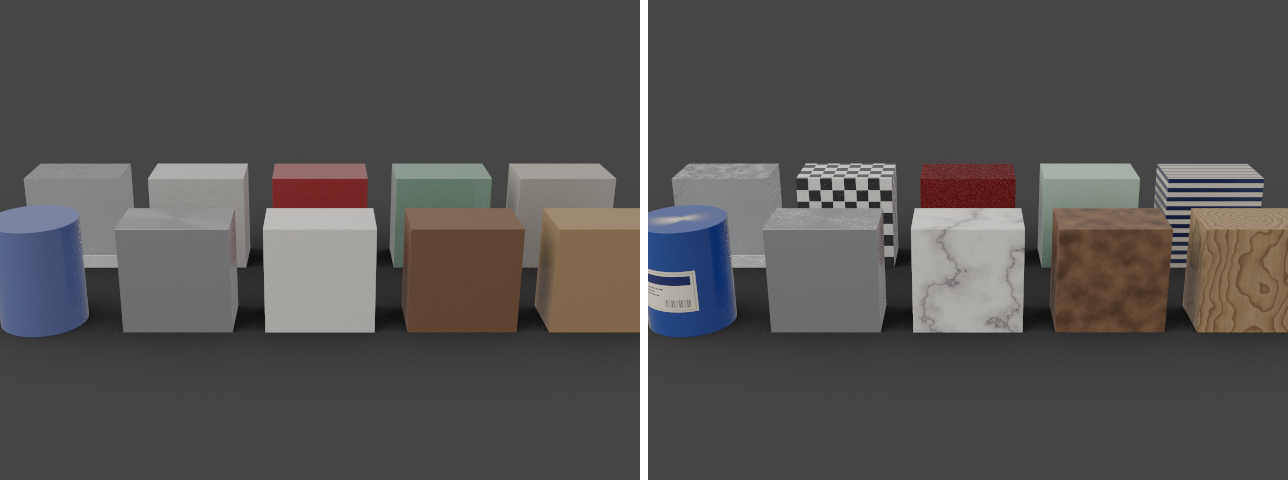
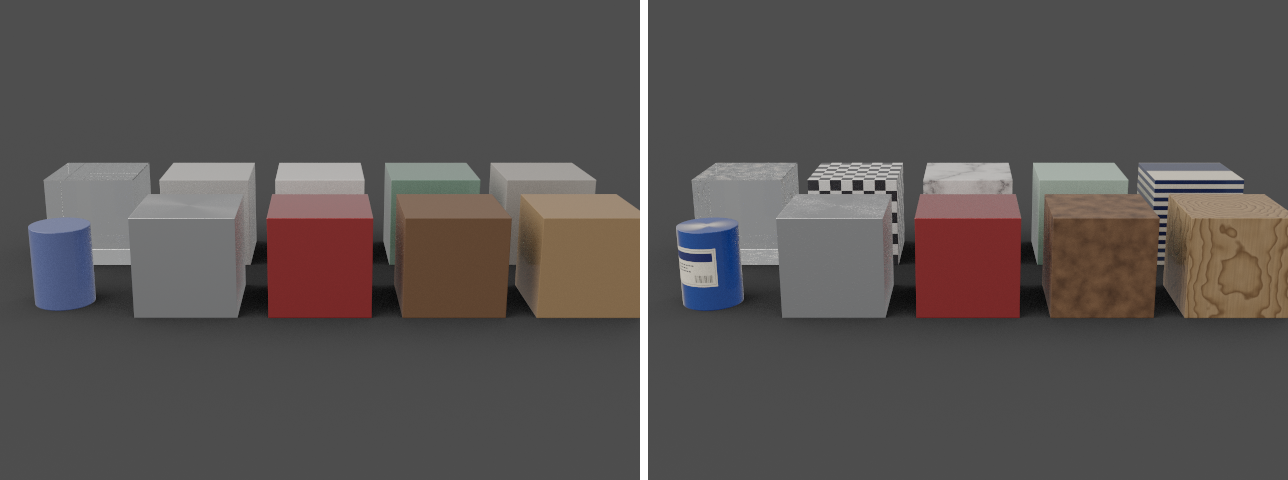
C1: the second round in the docs, and the stale captures re-recorded
Claude-Session: https://claude.ai/code/session_01Vyw8CoEN48cqBKpA2hjydX

Changed region(s): [[0.0, 0.3125, 1.0, 0.7188]]

diff --git a/tests/m3b-graphs-sheet.test.ts b/tests/m3b-graphs-sheet.test.ts
@@ -1,0 +1,79 @@
+// The capture `docs/ui/m3b-graphs.png` (M3b; made again in C1, with the flakes facing out): the ten example graphs of
+// M3a on nine boxes and a cylinder, rendered by the real rt.wasm under the default studio, with each material's mean
+// (left, a writer without programs) and with its graph's program (right), side by side. Runs only when asked
+// (REPACK_WRITE_CAPTURES=1) and with rt.wasm:
+//
+//   npm run engine:build && REPACK_WRITE_CAPTURES=1 npx vitest run tests/m3b-graphs-sheet.test.ts
+
+import { writeFileSync } from 'node:fs';
+import { describe, expect, it } from 'vitest';
+import { exampleGraph, registerLabelImage } from '../src/core/material-examples';
+import { instanceFromPreset, type MaterialInstance } from '../src/core/materials';
+import { registerMesh } from '../src/core/meshes';
+import type { NodeId, SceneNode } from '../src/core/scene';
+import { createInitialState, reduce, type ProjectState } from '../src/core/store';
+import { MATERIAL_GRAPHS } from '../src/data/material-graphs';
+import { encodePng } from '../src/io/image';
+import { projectScene, tonemapFor, writeRsb } from '../src/io/rsb';
+import { exactBytes } from '../src/render/tiles';
+import { box, cylinder, moved } from './browser/programs-scene';
+import { loadRt, renderWithPasses, RT_WASM } from './wasm-engine';
+
+const W = 640;
+const H = 480;
+const SAMPLES = 128;
+const GAP = 8;
+
+/** The ten parts in two rows (the back row raised behind the front one), each with its example's graph. */
+function sheetScene(): ProjectState {
+  const nodes: Record<NodeId, SceneNode> = {};
+  const materials: Record<string, MaterialInstance> = {};
+  const children: string[] = [];
+  // Back row, then front row (the glass at the back, so it hides nothing; the flakes in the middle of the front).
+  const ORDER = ['GLASS_DIRT', 'CHECKS', 'MARBLE', 'GLAZED_CERAMIC', 'STRIPES', 'PLASTIC_LABEL', 'BRUSHED_SCRATCHED', 'METALLIC_FLAKES', 'LEATHER', 'WOOD_TWO_NOISES'];
+  expect([...ORDER].sort()).toEqual(MATERIAL_GRAPHS.map((g) => g.key).sort());
+  ORDER.map((key) => MATERIAL_GRAPHS.find((g) => g.key === key)!).forEach((def, i) => {
+    const row = i < 5 ? 1 : 0;
+    const col = i % 5;
+    const id = `p${i}`;
+    const round = def.key === 'PLASTIC_LABEL';
+    const x = (col - 2) * 130;
+    const y = row * 170;
+    const mesh = registerMesh(`m3b-sheet:${def.key}`, round ? cylinder() : moved(box([-50, -50, 0], [50, 50, 100])));
+    materials[`m${i}`] = instanceFromPreset(`m${i}`, 'WHITE_STUDIO', 300)!;
+    nodes[id] = { id, name: def.key, kind: 'PART', parent: 'model', children: [], transform: { position: [x, y, 0], rotation: [0, 0, 0], scale: [1, 1, 1] }, visible: true, locked: false, mesh, material: `m${i}`, smooth: true };
+    children.push(id);
+  });
+  nodes.model = { id: 'model', name: 'model', kind: 'MODEL', parent: null, children, transform: { position: [0, 0, 0], rotation: [0, 0, 0], scale: [1, 1, 1] }, visible: true, locked: false };
+  let s = reduce(createInitialState(), { type: 'scene/addModel', payload: { nodes, roots: ['model'], materials }, replace: true });
+  for (const def of MATERIAL_GRAPHS) {
+    const part = Object.values(s.scene.nodes).find((n) => n.kind === 'PART' && n.name === def.key)!;
+    s = reduce(s, { type: 'graph/enable', material: part.material! });
+    s = reduce(s, { type: 'graph/set', material: part.material!, graph: exampleGraph(def.key, def.labelImage ? registerLabelImage() : null)! });
+  }
+  s = reduce(s, { type: 'render/set', patch: { width: W, height: H } });
+  s = reduce(s, { type: 'camera/set', id: s.camera.active, patch: { azimuth: 0, elevation: 16, distance: 980, target: [0, 85, 40], focalMm: 50, fstop: 0 } });
+  return { ...s, environment: { ...s.environment, background: 'COLOR', color: [0.06, 0.06, 0.06, 1] } };
+}
+
+describe.skipIf(!process.env.REPACK_WRITE_CAPTURES || !RT_WASM)('the capture of the ten example graphs in Full (m3b-graphs.png)', () => {
+  it('renders the means and the programs and writes them side by side', async () => {
+    const state = sheetScene();
+    const rt = await loadRt();
+    const picture = (programs: boolean) => {
+      const rsb = writeRsb(projectScene(state, { width: W, height: H, maxSamples: SAMPLES, maxSeconds: 0, textures: true, programs }).scene);
+      const { image } = renderWithPasses(rt, rsb, W, H, SAMPLES, 0);
+      return exactBytes(image.sum, SAMPLES, state.image.exposureEv, tonemapFor(state.image.viewTransform));
+    };
+    const [mean, program] = [picture(false), picture(true)];
+    const width = 2 * W + GAP;
+    const out = new Uint8Array(width * H * 4).fill(255);
+    for (let y = 0; y < H; y++) {
+      out.set(mean.subarray(y * W * 4, (y + 1) * W * 4), y * width * 4);
+      out.set(program.subarray(y * W * 4, (y + 1) * W * 4), (y * width + W + GAP) * 4);
+    }
+    for (let i = 3; i < out.length; i += 4) out[i] = 255;
+    writeFileSync('docs/ui/m3b-graphs.png', await encodePng({ width, height: H, data: out }));
+    expect(mean).not.toEqual(program);
+  }, 1_200_000);
+});

diff --git a/tests/browser/programs-scene.ts b/tests/browser/programs-scene.ts
@@ -50,7 +50,7 @@ function controlOf(key: string): Control {
   return { kind: 'shift', mm: 23 };
 }
 
-interface Built {
+export interface Built {
   p: number[];
   n: number[];
   uv: number[];
@@ -69,7 +69,7 @@ function face(out: Built, corners: Vec3[], normal: Vec3, uv: [number, number][])
 }
 
 /** A box from `lo` to `hi` with UVs over each face (the front, y = lo.y, u along +x and v up), its UVs moved by `dv`. */
-function box(lo: Vec3, hi: Vec3, dv = 0): Built {
+export function box(lo: Vec3, hi: Vec3, dv = 0): Built {
   const m: Built = { p: [], n: [], uv: [], i: [] };
   const [x0, y0, z0] = lo;
   const [x1, y1, z1] = hi;
@@ -90,13 +90,13 @@ function box(lo: Vec3, hi: Vec3, dv = 0): Built {
 }
 
 /** The mesh of `m` with its coordinates moved by `d`. */
-function moved(m: Built, d: Vec3 = [0, 0, 0]): MeshData {
+export function moved(m: Built, d: Vec3 = [0, 0, 0]): MeshData {
   const p = m.p.map((x, k) => x + d[k % 3]);
   return { positions: Float32Array.from(p), normals: Float32Array.from(m.n), indices: Uint32Array.from(m.i), uvs: Float32Array.from(m.uv) };
 }
 
 /** The cylinder about Z (radius 30, 80 tall): smooth sides of 96 segments, flat caps. */
-function cylinder(): MeshData {
+export function cylinder(): MeshData {
   const seg = 96;
   const r = 30;
   const h = 80;

diff --git a/docs/ROADMAP.md b/docs/ROADMAP.md
@@ -12001,16 +12001,27 @@ recetas del plugin, sin barra vertical.
 
 **Qué no encajó con el plan** (regla 12; ◆ para quien decide):
 
-1. ◆ **Los mandos de la guarda de *Ajustes* no llegan a la guarda.** `ai.guardDeltaE`, `ai.guardDeltaE95` y `ai.guardEdgePx` se guardan y se muestran, pero ni el `post.wasm` ni el lanzador los leen (el trabajo solo lleva tolerancias propias desde las herramientas de calibración): la guarda usa siempre `Tolerances::PROVISIONAL`. Y el borde de fábrica ya difería (1,5 px en el motor, 2 en *Ajustes*): doblado, 3 y 4. Se doblaron los dos y no se tocó nada más.
-2. ◆ **Las instalaciones existentes conservan 30 y 2/3/2.** Es la convención de *Ajustes* (lo guardado manda). Si se quiere que también ellas pasen a 50, un paso de esquema 1 → 2 que cambie exactamente 30 por 50 lo haría, a costa de pisar a quien eligió 30.
-3. ◆ **`NORMAL_MAP` en el espacio de la pieza** no se tocó (el encargo era el espacio tangente): con una intensidad por encima de 0,5, un mapa que apunte contra la superficie aún puede doblar la normal hacia dentro.
+1. **Los mandos de la guarda de *Ajustes* no llegaban a la guarda** (decidido y hecho en la segunda ronda, abajo): `ai.guardDeltaE`, `ai.guardDeltaE95` y `ai.guardEdgePx` se guardaban y se mostraban, pero la guarda usaba siempre `Tolerances::PROVISIONAL`, y el borde de fábrica difería (1,5 px en el motor, 2 en *Ajustes*).
+2. **Las instalaciones existentes conservaban 30 y 2/3/2** por la convención de *Ajustes* (lo guardado manda): decidido migrarlas (segunda ronda).
+3. **`NORMAL_MAP` en el espacio de la pieza** podía aún doblar la normal hacia dentro con una intensidad por encima de 0,5: decidido plegarlo también (segunda ronda).
 4. **K1**: la decoración de un tipo de producto que es un set (el foco del charco, el fondo) se queda bajo la receta, como al añadir una receta conservando los focos; quitarla obligaría a la casilla a guardar piezas de la escena para devolverlas. Con la exposición automática de *Interior*, la exposición que pone la receta (la del tipo más 0,2) es la compensación, igual que al elegirla en el catálogo.
 5. **D1**: el recorte ya era aviso y el vídeo ya estaba despierto desde N1; lo nuevo es el arreglo (AgX), las frases, la SPEC y los tests.
-6. ◆ **H1: `ink-3` no se subió.** Es el gris de lo apagado (controles deshabilitados, filas ocultas, separadores, asas, miniaturas vacías), que WCAG 1.4.3 no mide; subirlo a 4,5:1 lo pondría en `#5f5f5f`, encima de `ink-2`, y aplanaría la jerarquía. Lo usan también como texto la etiqueta *próximamente* de las tarjetas de efectos, el rango de *Suavizado* en *Ajustes* y los nombres de filas ocultas y de focos apagados: si deben llegar a 4,5:1, pasan a `ink-2`.
-7. **Sin capturas nuevas.** Cambia lo que se ve en tres sitios ya capturados: el texto auxiliar del tema claro, un poco más oscuro; los copos de `m3b-graphs.png`; y los focos de *Interior* en `scene-type-interior.png`. Quedan para regrabar en el PR de la versión.
+6. **H1: `ink-3` no se sube.** Es el gris de lo apagado (controles deshabilitados, separadores, asas, miniaturas vacías), que WCAG 1.4.3 no mide; subirlo a 4,5:1 lo pondría encima de `ink-2` y aplanaría la jerarquía. El texto que se lee y lo usaba pasa a `ink-2` (segunda ronda).
+7. **Capturas**: las que este cambio dejó viejas se regrabaron en la segunda ronda.
 
 **Puertas.** `npm run engine:build`, `npm run qa` (tipos y *build* en verde; de 3071 tests, en una pasada falló solo `tests/ai-desktop.test.ts` «cancelling mid-way», una carrera de tiempos con la máquina cargada que fija la intervención a 100 y no depende de los valores de fábrica: pasa solo tres veces seguidas, y la suite entera con `npx vitest run --maxWorkers=2` da 3065 pasan y 6 se saltan). En `engine/`: `cargo fmt --check`, `clippy --workspace --all-targets -D warnings`, `cargo test --workspace --release` (1130 pasan, 5 ignorados), la compilación wasm32 de `rt-wasm` y `rt-post-wasm` sin importaciones WASI, los bloques de paridad de `engine.yml` contra el `rt_wasm.wasm` real (40 imágenes; M3b da `0x90b42b6b` con sus seis pases iguales), la paridad de la guarda con el `post.wasm` real (`tests/ai-post-wasm.test.ts`) y los tests del código de la página con el `rt.wasm` real (107 pasan). `tests/programs-full-browser.test.ts` y `tests/light-panel-browser.test.ts`, en Chromium.
 
+**Segunda ronda** (lo marcado ◆, decidido por el responsable):
+
+- **Fusión de `main`** (v0.1.17, el arranque en *Rápido* y O4): el CHANGELOG junta las dos partes por áreas; en el ROADMAP se queda el nombre *Decisiones de criterio* (O4 anotó sus decisiones en su propia fase y no tocó la lista).
+- **Migración de los valores de fábrica de antes.** `SETTINGS_SCHEMA` pasa a **2** y su paso 1 → 2 (`STEPS[1]`, con `OLD_AI_FACTORY`) cambia un `ai.intervention` guardado igual a 30 por 50, y unas tolerancias iguales a 2, 3 y 2 px por 4, 6 y 4 px, cada una por su cuenta; cualquier otro valor se queda, y un documento de esquema 2 se lee tal cual (allí un 30 es una elección). Test en `tests/ai-settings.test.ts`: un documento viejo toma los nuevos, uno con 35 conserva 35 (y un ΔE de 5 o un borde de 1 los suyos), uno de esquema 2 conserva 30.
+- **Los mandos de la guarda llegan a la guarda.** `AiPostRequest.tolerances` (`deltaEMean`, `deltaEP95`, `edgesPx`, las claves de `Tolerances::KEYS`) y `withGuardTolerances` (`core/ai-post.ts`), que envuelve el servicio de la aplicación (`main.ts`) y pone en cada petición, la de la cola y la de la vista previa, lo que dice *Ajustes* en ese momento (`guardTolerances`). En escritorio, `DesktopAiService` las manda en el JSON y el lanzador ya las aceptaba (`PostRequest.tolerances`); en la web, el servicio sintético mide contra ellas y `jobTolerances` las pone en el trabajo del `post.wasm`. El borde de fábrica es **4 px en todas partes** (`Tolerances::PROVISIONAL.edges_px`, era 3). Con eso apareció un fallo: el perfil que mide el borde llegaba a 4 px de cada lado y no podía medir más de unos 3, así que con un límite de 4 la comprobación no podía fallar nunca; ahora llega dos píxeles más allá del límite (`edge_reach`, de 4 a 16). Tests: con el `post.wasm` real, el plan y el informe usan 7,5, 9 y 6 si *Ajustes* lo dice, y los de fábrica si no (`tests/ai-post-wasm.test.ts`); el servicio sintético a través de `withGuardTolerances`, leído en cada llamada (`tests/ai-synthetic.test.ts`); el JSON que recibe el lanzador (`tests/ai-desktop-service.test.ts`) y, con el lanzador real y el *runtime* falso, el informe de su guarda con 7,5 y 6 (`tests/ai-desktop.test.ts`); en `rt-post`, `the_edge_profile_reaches_past_the_limit` y los dos tests de un borde movido, que movían 3 px (dentro del límite nuevo) y ahora mueven 6. `tests/fixtures/ai-guard.json` solo cambia el límite de bordes que dice el informe (3 → 4): ninguna imagen se movió.
+- **`NORMAL_MAP` en el espacio de la pieza**: un resultado al otro lado de la superficie se refleja en su plano (`r − 2(r·n)n`, normalizado), igual en `program/interp.rs` y en `core/material-interp.ts`. Con intensidad 0,5 o menos nunca pasa (la normal es al menos `1 − 2s` hacia fuera). Tests que fallan sin el arreglo: `a_part_space_normal_map_never_points_into_the_surface` (Rust) y el de `tests/material-program.test.ts`. **Fijado que se mueve:** solo el caso `NMAP 1` de la prueba cruzada (`9b01860a` → `6c271a5b`: la instrucción sola en el espacio de la pieza con intensidad 1 y la que da una coordenada de UV, sobre colores que apuntan contra la normal); los diez ejemplos y las escenas del motor no usan mapas en el espacio de la pieza, y ninguna imagen fijada se movió.
+- **Texto en `ink-3`**: la etiqueta *próximamente* de las tarjetas de efectos (`.fx-card-soon`), el rango de *Suavizado* (`.sw-aa-rank`) y los nombres de las filas ocultas y de los focos apagados (`.tree-row.is-hidden`, `.list-row.is-off`) pasan a `ink-2` (4,5:1). `tests/ui-contrast.test.ts` lee las hojas de estilo y exige que toda regla con texto en `ink-3` sea un control deshabilitado o rechazado o decoración (separador, asa, icono, miniatura vacía), y que esos cuatro papeles sean `ink-2`; falla si uno vuelve a `ink-3`.
+- **Un fallo de la sección *Luz* que destapó la receta de partida**: los campos de cada foco se rehacían solo cuando cambiaban los ids de los focos, y los de la receta son los del tipo (`l1`…`l3` y el del charco), así que con *Interior* seguían los nombres del tipo (*Relleno*, *Contra 1*) sobre los focos de la receta, y al volver los de la receta. Ahora los rehace también el papel, si es propio y su nombre (`tuneLightsKey`); test en `tests/scene-type.test.ts`, que falla con la clave de antes. La comprobación en el navegador (`tools/scene-type-check.mjs`) lo encontró; de paso se le quitó lo que K3 había dejado viejo (leía la transformada en el control de la exposición, y el nombre *Brillo (EV)* de la exposición automática contaba como un control nuevo) y no compara las filas de los focos, que con *Interior* son las de su receta. `tools/ai-post-check.mjs` elegía *PNG* por un texto que ahora es también el de *PNG 16 bits*: se le da exacto.
+- **Capturas regrabadas** (en *Sin publicar* de `GALERIA.md`): `scene-type-interior.png` (*Interior* con su receta de partida; `tools/scene-type-check.mjs` sigue a C1: elige después otra receta, que sí pregunta), `m3b-graphs.png` (los copos hacia fuera; ahora la hace `tests/m3b-graphs-sheet.test.ts`, con `REPACK_WRITE_CAPTURES=1`) y, del tema claro, `ai-section-light.png` y `ai-results-light.png` (`tools/ai-post-check.mjs`, que esperaba la intervención de fábrica en 30).
+
+**Puertas de la segunda ronda**, tras la fusión: `npm run engine:build` y `npm run qa` en verde (3108 tests: 3101 pasan, 7 se saltan); en `engine/`, `cargo fmt --check`, `clippy --workspace --all-targets -D warnings`, `cargo test --workspace --release` (1142 pasan, 5 ignorados), la compilación wasm32 sin importaciones WASI, los bloques de paridad de `engine.yml` contra el `rt_wasm.wasm` real (42 imágenes, con la de O4; ninguna se movió), la paridad de la guarda con el `post.wasm` real (11 pasan) y los tests del código de la página con el `rt.wasm` real (129 pasan); el lanzador real con el *runtime* falso (`tests/ai-desktop.test.ts`); `tools/scene-type-check.mjs` y `tools/ai-post-check.mjs` (36 comprobaciones) en Chromium.
 ## Orden sugerido
 
 1. **U1** (Opus) y **E1** (Sonnet), en paralelo: la interfaz y el

diff --git a/docs/GALERIA.md b/docs/GALERIA.md
@@ -26,7 +26,7 @@ De la más nueva a la más antigua: 18 versiones, 15 con capturas nuevas; las ca
 
 ### Sin publicar
 
-La lente simple y la trazada, cada una con sus opciones: la inclinación con un dial, el plano de enfoque en el visor y por dos puntos, y la lente trazada inclinada. Regrabadas aquí, sin cambiar de sitio, las de la lente (`lens-editor.png`, `lens-section.png`, `camera-bokeh.png` y `camera-optics.png`).
+La lente simple y la trazada, cada una con sus opciones: la inclinación con un dial, el plano de enfoque en el visor y por dos puntos, y la lente trazada inclinada. Regrabadas aquí, sin cambiar de sitio, las de la lente (`lens-editor.png`, `lens-section.png`, `camera-bokeh.png` y `camera-optics.png`). C1 (decisiones de criterio aplicadas) regraba, sin cambiar de sitio: `scene-type-interior.png` (K1), `m3b-graphs.png` (M3b), `ai-section-light.png` y `ai-results-light.png` (X4).
 
 #### O4 · Lente simple y trazada: opciones de cada una
 
@@ -124,7 +124,7 @@ Tipo de escena (Producto, Interior, Catálogo), el estilo de luz Interior con si
 #### K1 · Tipo de escena, luz de interior y Doctor de interiores
 
 <a id="c-scene-type-interior"></a><img src="ui/scene-type-interior.png" width="480" alt="El tipo de escena Interior elegido (Producto · Interior · Catálogo) y el estilo de luz Interior con sus siete recetas: ventana de mañana, de mediodía y de tarde, nublado, lámparas de noche, hora azul y sala blanca de estudio. La pieza se ve pequeña porque Interior pone 28 mm."><br>
-`scene-type-interior.png` · `431e7b8` · El tipo de escena Interior elegido (Producto · Interior · Catálogo) y el estilo de luz Interior con sus siete recetas: ventana de mañana, de mediodía y de tarde, nublado, lámparas de noche, hora azul y sala blanca de estudio. La pieza se ve pequeña porque Interior pone 28 mm. *(regrabada en v0.1.17: Interior es un estilo del grupo Luces de L7)*
+`scene-type-interior.png` · `431e7b8` · El tipo de escena Interior elegido (Producto · Interior · Catálogo) y el estilo de luz Interior con sus siete recetas: ventana de mañana, de mediodía y de tarde, nublado, lámparas de noche, hora azul y sala blanca de estudio. La pieza se ve pequeña porque Interior pone 28 mm. *(regrabada en v0.1.17: Interior es un estilo del grupo Luces de L7)* *(regrabada en Sin publicar: C1, *Interior* empieza con la receta *Ventana de mediodía*; la decoración del set del tipo de producto se queda)*
 
 #### D1 · Doctor de motor
 
@@ -170,7 +170,7 @@ Los materiales de nodos funcionan en Completo y en los renders.
 #### M3b · El motor evalúa grafos
 
 <a id="c-m3b-graphs"></a><img src="ui/m3b-graphs.png" width="480" alt="Los diez ejemplos del editor de nodos en modo Completo: con la media de cada salida (izquierda) y con el programa del grafo que ejecuta el motor (derecha)."><br>
-`m3b-graphs.png` · `fbb054e` · Los diez ejemplos del editor de nodos en modo Completo: con la media de cada salida (izquierda) y con el programa del grafo que ejecuta el motor (derecha).
+`m3b-graphs.png` · `fbb054e` · Los diez ejemplos del editor de nodos en modo Completo: con la media de cada salida (izquierda) y con el programa del grafo que ejecuta el motor (derecha). *(regrabada en Sin publicar: C1, los copos de la pintura metalizada miran hacia fuera; la hace `tests/m3b-graphs-sheet.test.ts`)*
 
 <a id="c-m3b-wood"></a><img src="ui/m3b-wood.png" width="480" alt="Dos maderas en el motor: la familia Madera del catálogo (roble, anillos finos y rectos) a la izquierda y el ejemplo de nodos «Madera con dos ruidos» a la derecha; todavía no se parecen."><br>
 `m3b-wood.png` · `fbb054e` · Dos maderas en el motor: la familia Madera del catálogo (roble, anillos finos y rectos) a la izquierda y el ejemplo de nodos «Madera con dos ruidos» a la derecha; todavía no se parecen.
@@ -491,10 +491,10 @@ Arreglos de escritorio (ventana propia, datos que sobreviven a un reinicio), arr
 #### X4 · Interfaz del post-procesado
 
 <a id="c-ai-section-dark"></a><img src="ui/ai-section-dark.png" width="440" alt="La sección Post-procesado IA de la ventana de render con el servicio sintético de pruebas: interruptor, mandos de intervención, luz, rebotes, desgaste y estilo, prompt propio, protecciones, variantes y vista previa Antes y Después con divisor. Tema oscuro y claro."> <a id="c-ai-section-light"></a><img src="ui/ai-section-light.png" width="440" alt="La sección Post-procesado IA de la ventana de render con el servicio sintético de pruebas: interruptor, mandos de intervención, luz, rebotes, desgaste y estilo, prompt propio, protecciones, variantes y vista previa Antes y Después con divisor. Tema oscuro y claro."><br>
-`ai-section-dark.png` y `ai-section-light.png` · `693762d` · La sección Post-procesado IA de la ventana de render con el servicio sintético de pruebas: interruptor, mandos de intervención, luz, rebotes, desgaste y estilo, prompt propio, protecciones, variantes y vista previa Antes y Después con divisor. Tema oscuro y claro. *(regrabada en v0.1.5)*
+`ai-section-dark.png` y `ai-section-light.png` · `693762d` · La sección Post-procesado IA de la ventana de render con el servicio sintético de pruebas: interruptor, mandos de intervención, luz, rebotes, desgaste y estilo, prompt propio, protecciones, variantes y vista previa Antes y Después con divisor. Tema oscuro y claro. *(regrabada en v0.1.5)* *(`ai-section-light.png` regrabada en Sin publicar: C1, la intervención de fábrica en 50 y el texto secundario del tema claro a 4,5:1)*
 
 <a id="c-ai-results-viewer"></a><img src="ui/ai-results-viewer.png" width="440" alt="El visor de resultados con una imagen de IA: divisor Render | IA, el informe de la guarda en su propia línea y el aviso de que la IA se limitó para respetar las protecciones. Tema oscuro y claro."> <a id="c-ai-results-light"></a><img src="ui/ai-results-light.png" width="440" alt="El visor de resultados con una imagen de IA: divisor Render | IA, el informe de la guarda en su propia línea y el aviso de que la IA se limitó para respetar las protecciones. Tema oscuro y claro."><br>
-`ai-results-viewer.png` y `ai-results-light.png` · `693762d` · El visor de resultados con una imagen de IA: divisor Render | IA, el informe de la guarda en su propia línea y el aviso de que la IA se limitó para respetar las protecciones. Tema oscuro y claro. *(regrabada en v0.1.5)*
+`ai-results-viewer.png` y `ai-results-light.png` · `693762d` · El visor de resultados con una imagen de IA: divisor Render | IA, el informe de la guarda en su propia línea y el aviso de que la IA se limitó para respetar las protecciones. Tema oscuro y claro. *(regrabada en v0.1.5)* *(`ai-results-light.png` regrabada en Sin publicar: C1, el texto secundario del tema claro a 4,5:1)*
 
 <a id="c-ai-queue"></a><img src="ui/ai-queue.png" width="480" alt="La cola con un trabajo terminado con IA (columna «IA»): dos miniaturas, la del render y la de la IA, en la fila y en el historial."><br>
 `ai-queue.png` · `693762d` · La cola con un trabajo terminado con IA (columna «IA»): dos miniaturas, la del render y la de la IA, en la fila y en el historial. *(regrabada en v0.1.5)*

diff --git a/docs/CHANGELOG.md b/docs/CHANGELOG.md
@@ -8,7 +8,8 @@ fase del roadmap (`ROADMAP.md`) de donde sale cada línea.
 ### Interfaz
 
 - **El visor arranca siempre en *Rápido*.** Antes arrancaba en el último modo, y en una instalación nueva ese era *Completo*: el motor se ponía a renderizar nada más abrir la aplicación, sin modelo. Desaparece el ajuste *Modo del visor al arrancar*; *Completo* se elige en la barra de arriba. Lo guarda `tests/start-mode-browser.test.ts`, que falla con el arranque de antes.
-- La **intervención** de la IA por defecto pasa de 30 a 50, y las tolerancias de fábrica de la guarda en *Ajustes ▸ Post-procesado IA ▸ Avanzado* se doblan (4, 6 y 4 px). Unos ajustes ya guardados conservan lo que tenían (C1).
+- La **intervención** de la IA por defecto pasa de 30 a 50, y las tolerancias de fábrica de la guarda en *Ajustes ▸ Post-procesado IA ▸ Avanzado* se doblan (4, 6 y 4 px). Unos ajustes guardados que aún tenían los valores de fábrica de antes toman los nuevos; uno elegido se queda (C1).
+- Las tolerancias de la guarda de *Ajustes* **mandan de verdad**: cada post-procesado, en la cola y en la vista previa, las lleva al lanzador o a la guarda de la web (C1).
 - El tipo de escena **Interior** empieza con la receta de luz *Ventana de mediodía* cuando los focos son los del tipo de producto sin tocar; volver al tipo anterior deja los focos como estaban (C1).
 - Elegir un set o un montaje sobre los focos del tipo de producto sin tocar los sustituye sin preguntar; con focos propios o editados, la pregunta *Sustituir · Ocultar · Añadir* sigue como estaba (C1).
 - Doctor: recortar con *Estándar* es un aviso (un fondo blanco liso lo busca) y el arreglo propone **AgX** en vez de *Fílmica* (C1).
@@ -25,12 +26,14 @@ fase del roadmap (`ROADMAP.md`) de donde sale cada línea.
 
 - **Lente trazada inclinada** (Scheimpflug por las superficies reales): el ángulo se resuelve con la óptica paraxial de la lente para que el plano sea el de la lente simple, el centro se reenfoca con rayos reales y los límites de la pupila se trazan en una rejilla de 9 × 9 posiciones del sensor. Sin inclinación, ni un bit cambia: todos los *hash* fijados siguen; uno nuevo para la escena O4. `rt --write-o4-example` y la hoja `rt --tilt-sheet` (O4).
 - El nodo **Mapa de normales** en espacio tangente ya no deja que una normal apunte hacia dentro de la superficie: un azul por debajo de 0,5 se refleja al hemisferio de fuera, igual en el motor y en *Rápido* (C1).
-- La guarda del post-procesado IA tolera el doble por defecto: ΔE₀₀ medio 4 y percentil 95 6 por material, y 3 px de bordes (C1).
+- La guarda del post-procesado IA tolera el doble por defecto: ΔE₀₀ medio 4 y percentil 95 6 por material, y 4 px de bordes, los mismos números que *Ajustes*. Mide un borde movido hasta dos píxeles más allá del límite (antes no veía más de unos 3 px) (C1).
+- El nodo **Mapa de normales** en el espacio de la pieza tampoco deja una normal hacia dentro: con una intensidad por encima de 0,5 y un mapa contra la superficie, la refleja en su plano (C1).
 - Se mueven dos fijados, y solo por los copos de la tarjeta del ejemplo de M3b (un ruido en un mapa de normales): `PINNED_M3B_PROGRAMS_4SPP` y el quinto de `PINNED_M3B_PROGRAM_VALUES` (C1).
 
 ### Accesibilidad
 
 - El texto secundario (`ink-2`) llega a 4,5:1 (WCAG AA) sobre todas sus superficies: en el tema claro pasa de `#6b6b6b` a `#5f5f5f`. El texto principal sigue en 7:1 (C1).
+- La etiqueta *próximamente*, el rango de *Suavizado* y los nombres de filas ocultas y focos apagados pasan del gris de lo apagado (`ink-3`) al secundario, a 4,5:1 (C1).
 
 ### Herramientas
 

diff --git a/docs/AI-POST.md b/docs/AI-POST.md
@@ -255,11 +255,13 @@ desgaste), luces y entorno, para el *prompt*.
    - **Regiones por id**: intervención por región, y límite de cambio de
      color por material (ΔE₀₀ medio y percentil 95; punto de partida 4 y 6,
      el doble del ≤ 2–3 del principio por la decisión 2.1 de C1, a calibrar
-     en X1).
+     en X1). Las tres tolerancias son las de *Ajustes ▸ Post-procesado IA ▸
+     Avanzado*: cada petición lleva las de ese momento, y la guarda (el
+     lanzador y el `post.wasm`) mide contra ellas.
 5. **Comprobación y retroceso**: medidas sobre el resultado —tamaño
    exacto; píxeles idénticos fuera de las regiones permitidas; coincidencia
-   de bordes en discontinuidades de id y normal (3 px en la guarda del
-   motor y 4 en *Ajustes*, el doble de 1,5 y 2 desde C1); SSIM sobre la
+   de bordes en discontinuidades de id y normal (4 px desde C1; eran 1,5 en
+   la guarda y 2 en *Ajustes*); SSIM sobre la
    banda alta; ΔE₀₀ por región; nitidez por mosaico frente al mapa de
    desenfoque (ni se emborrona lo enfocado ni se enfoca lo desenfocado)—.
    Si alguna falla, la intervención baja sola y se repite hasta que pasen

diff --git a/docs/UI.md b/docs/UI.md
@@ -2075,7 +2075,8 @@ resolución de trabajo (lado largo 1024, 1536 o 2048, en mosaicos por
 encima), pasos, **intervención por defecto** (0–100, la de la ventana de
 render), semilla (*fija* o *nueva cada vez*), descargar el codificador de
 texto a RAM, y en *Avanzado* las tolerancias de la guarda
-(`AI-POST.md` §3.2; las de fábrica las fija X1). Un aviso en línea si el
+(`AI-POST.md` §3.2; las de fábrica las fija X1), que la guarda usa en cada
+petición (C1). Un aviso en línea si el
 modelo no cabe en la memoria detectada.
 
 **Post-procesado IA ▸ Prompt del sistema** (X4b): unas palabras generales para
